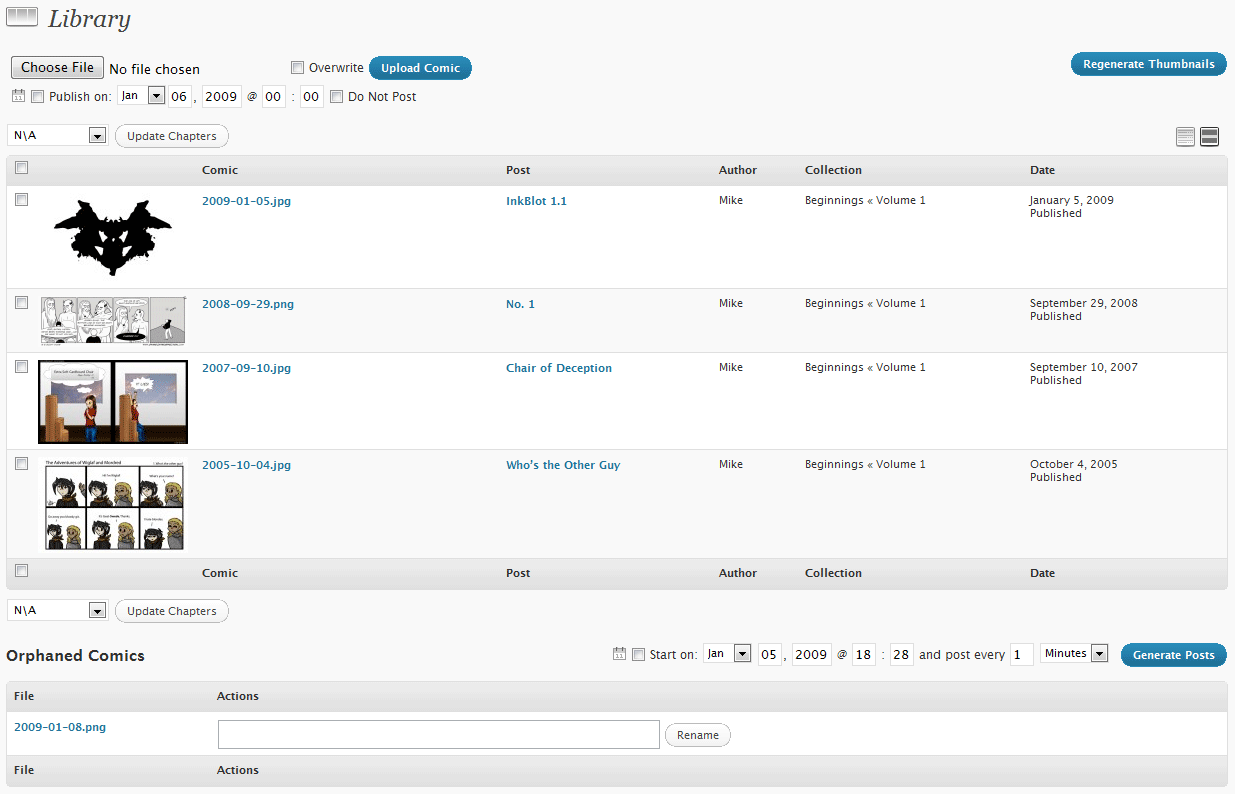
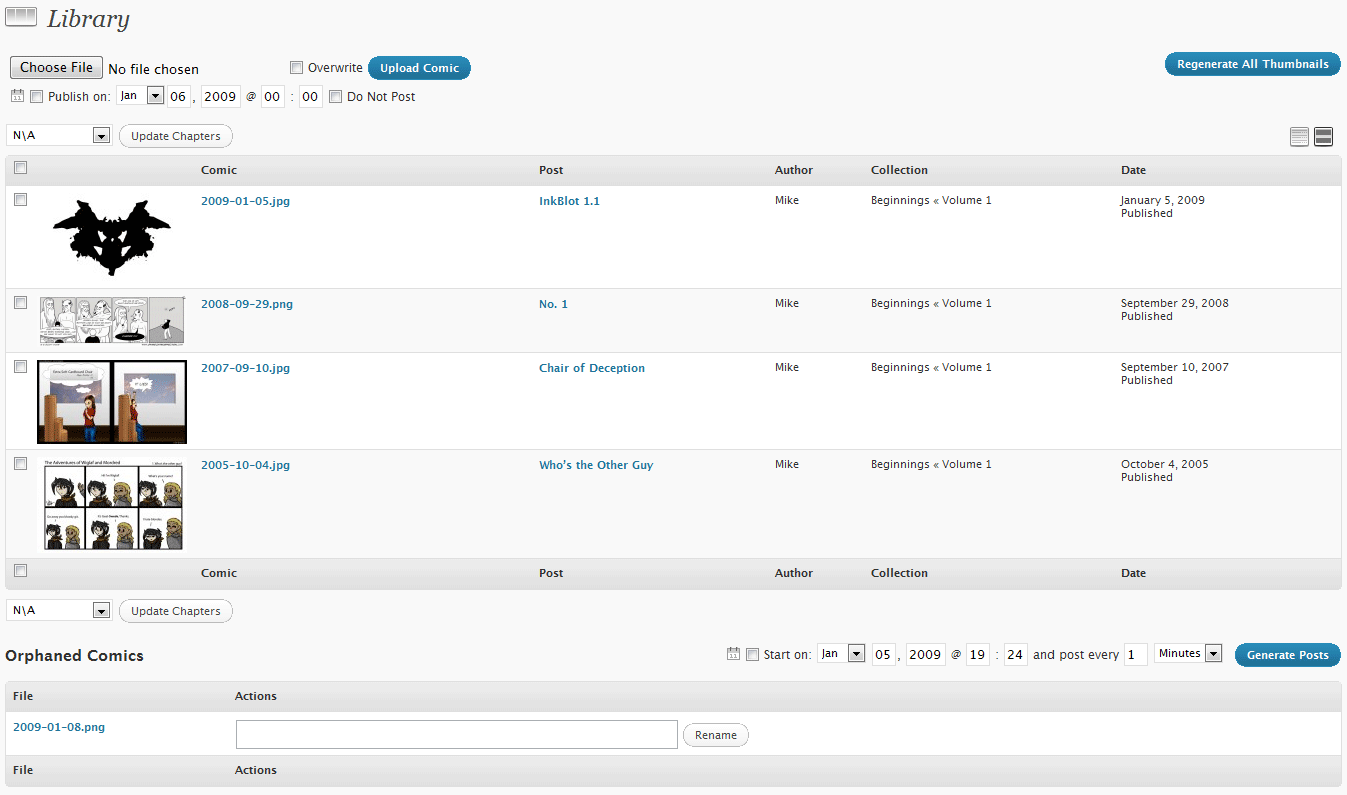
git-svn-id: https://plugins.svn.wordpress.org/webcomic/trunk@84443 b8457f37-d9ea-0310-8a92-e5e31aec5664

diff --git a/wc-admin-library.php b/wc-admin-library.php
@@ -220,7 +220,7 @@ function comic_page_library(){
 		endwhile;
 		closedir($dir);
 			
-		echo '<div id="message" class="updated fade"><p>'.sprintf(__('%1$s thumbnails regenrated.','webcomic'),$_REQUEST['file']).'</p></div>';
+		echo '<div id="message" class="updated fade"><p>'.sprintf(__('%1$s thumbnails regenerated.','webcomic'),$_REQUEST['file']).'</p></div>';
 		
 	endif;
 	
@@ -414,7 +414,7 @@ function comic_page_library(){
 		while($i<=$max_num_pages):
 			if(($i != 1 && $i < $paged-2) || ($i != $max_num_pages && $i > $paged+2)):
 				if($i == 2 || $i == $max_num_pages-1)
-					$page_output .= '<span class="page-numbers dots">&hellip;</span>';
+					$paged_output .= '<span class="page-numbers dots">&hellip;</span>';
 				$i++;
 				continue;
 			endif;
@@ -471,7 +471,7 @@ function comic_page_library(){
 		<form method="post" action="">
 			<?php wp_nonce_field('regen_all_thumbs'); ?>
 			<p class="alignright">
-				<input type="submit" class="button-primary" value="<?php _e('Regenerate Thumbnails','webcomic') ?>" title="<?php _e('This may take several minutes for large libraries','webcomic') ?>" />
+				<input type="submit" class="button-primary" value="<?php _e('Regenerate All Thumbnails','webcomic') ?>" title="<?php _e('This may take several minutes for large libraries','webcomic') ?>" />
 				<input type="hidden" name="action" value="regen_all_thumbs" />
 			</p>
 		</form>

diff --git a/wc-admin-metabox.php b/wc-admin-metabox.php
@@ -29,7 +29,6 @@ function comic_meta_box(){
 	<p><?php printf(__('Transcripts can be formatted using HTML or <a href="%1$s">Markdown</a> <a href="%2$s">Extra</a>.','webcomic'),'http://daringfireball.net/projects/markdown/syntax','http://michelf.com/projects/php-markdown/extra/') ?></p>
 	<?php
 }
-add_meta_box('webcomic', __('WebComic','webcomic'), 'comic_meta_box', 'post', 'normal', 'high');
 
 function comic_meta_box_save($id){	
 	if($_FILES['new_comic_file']):		
